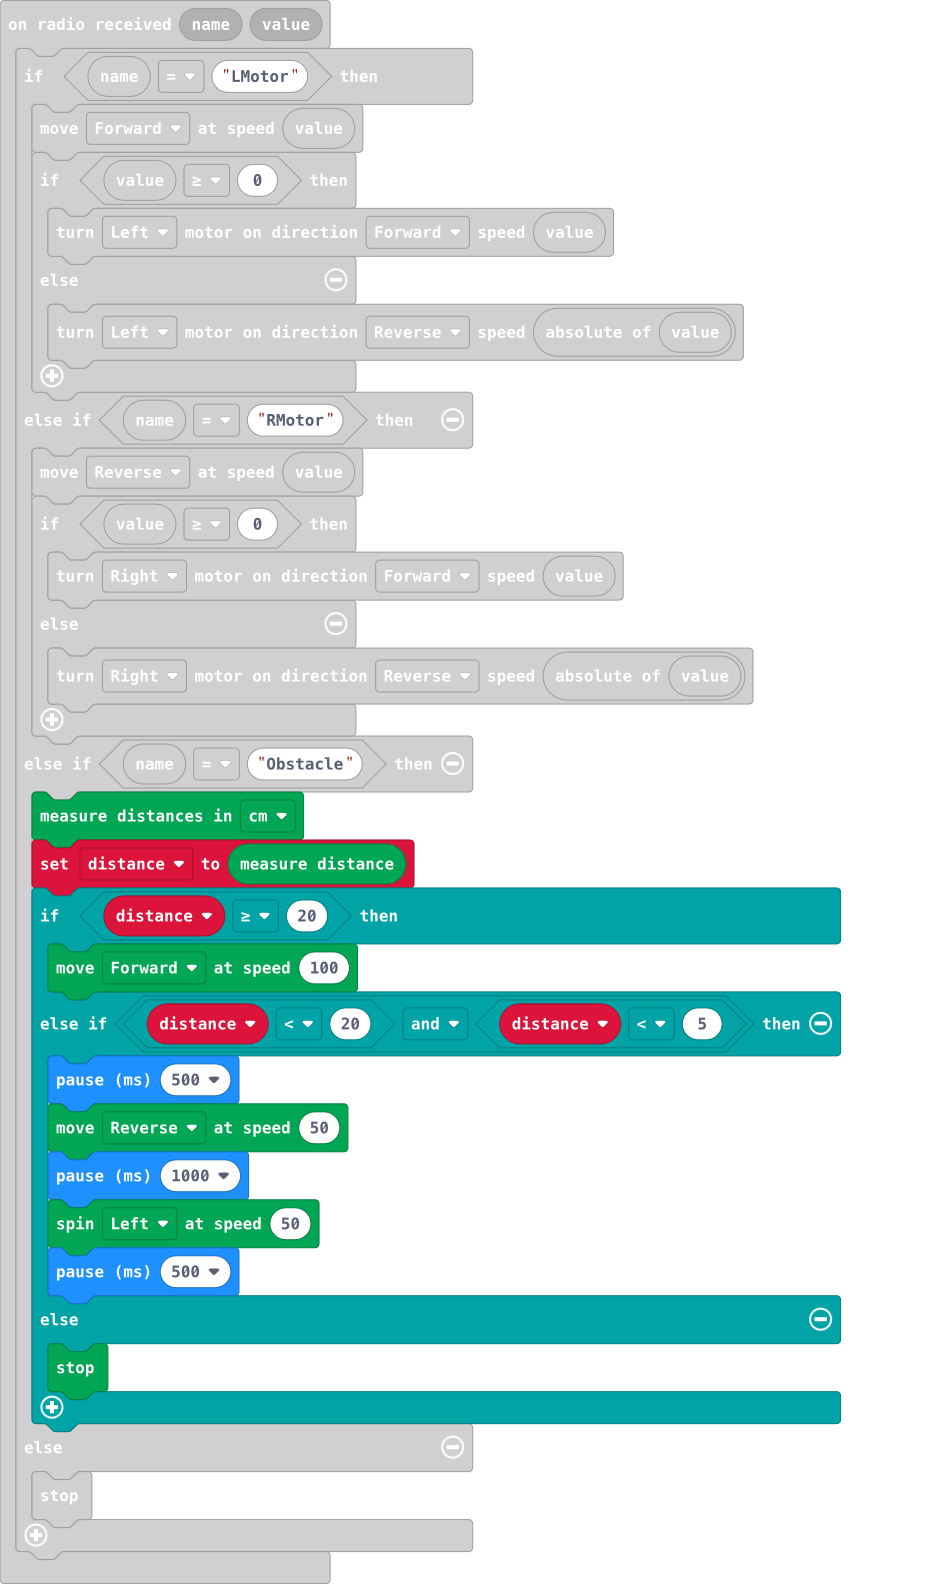
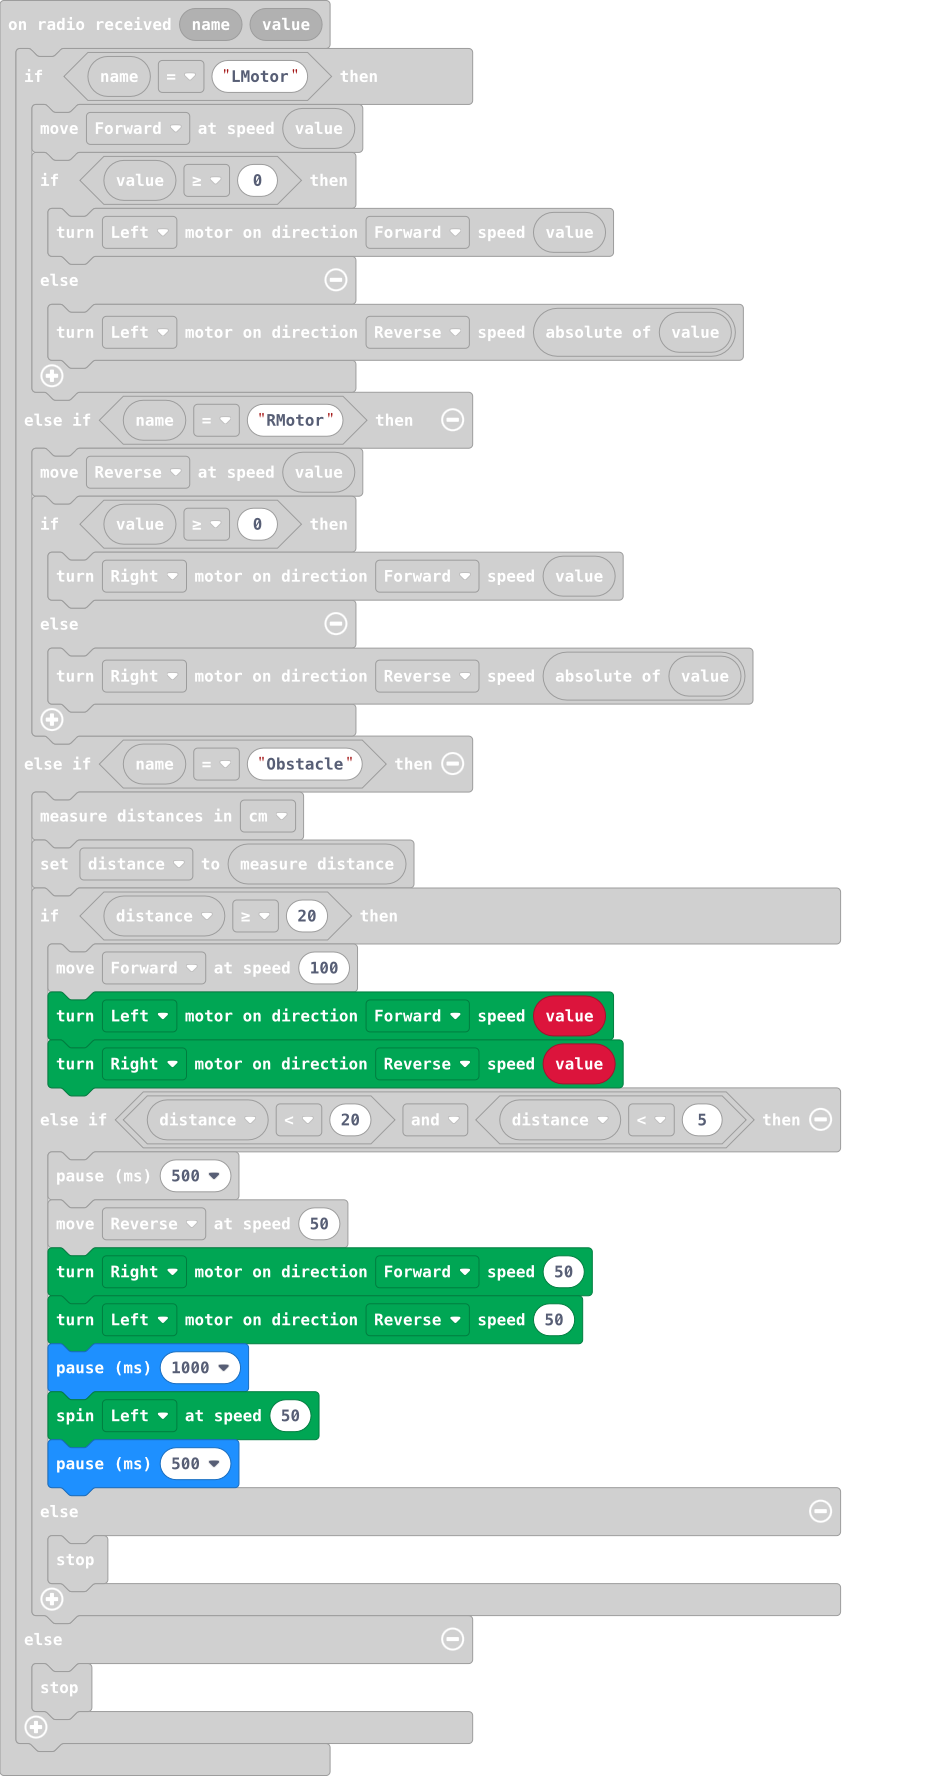
Update main.blocks, main.ts

diff --git a/main.ts b/main.ts
@@ -18,9 +18,13 @@ radio.onReceivedValue(function (name, value) {
         distance = Kitronik_Move_Motor.measure()
         if (distance >= 20) {
             Kitronik_Move_Motor.move(Kitronik_Move_Motor.DriveDirections.Forward, 100)
+            Kitronik_Move_Motor.motorOn(Kitronik_Move_Motor.Motors.MotorLeft, Kitronik_Move_Motor.MotorDirection.Forward, value)
+            Kitronik_Move_Motor.motorOn(Kitronik_Move_Motor.Motors.MotorRight, Kitronik_Move_Motor.MotorDirection.Reverse, value)
         } else if (distance < 20 && distance < 5) {
             basic.pause(500)
             Kitronik_Move_Motor.move(Kitronik_Move_Motor.DriveDirections.Reverse, 50)
+            Kitronik_Move_Motor.motorOn(Kitronik_Move_Motor.Motors.MotorRight, Kitronik_Move_Motor.MotorDirection.Forward, 50)
+            Kitronik_Move_Motor.motorOn(Kitronik_Move_Motor.Motors.MotorLeft, Kitronik_Move_Motor.MotorDirection.Reverse, 50)
             basic.pause(1000)
             Kitronik_Move_Motor.spin(Kitronik_Move_Motor.SpinDirections.Left, 50)
             basic.pause(500)
